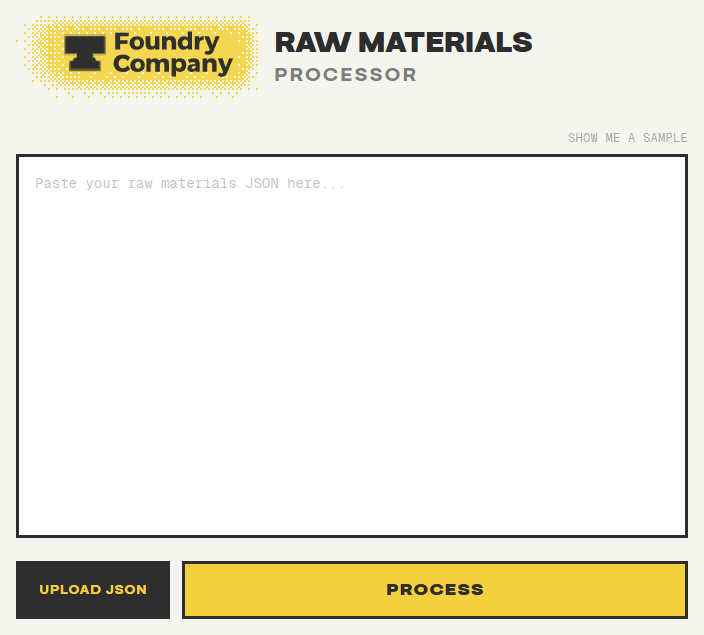
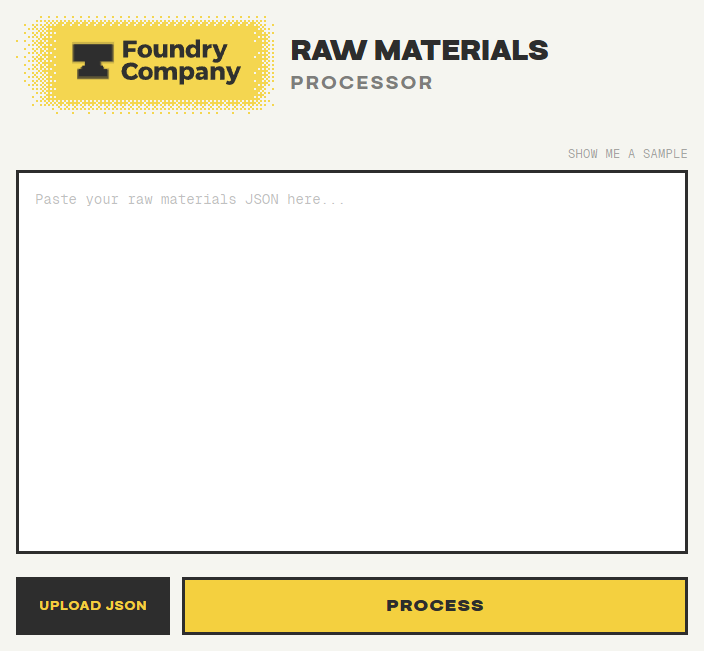
style: give the Foundry wordmark a solid yellow backing (#3)

Changed region(s): [[0.0312, 0.0299, 0.7812, 0.1795], [0.0312, 0.8378, 0.9688, 0.9874], [0.0, 0.2094, 1.0, 0.3291]]

diff --git a/src/components/Header.tsx b/src/components/Header.tsx
@@ -4,13 +4,13 @@ export default function Header() {
       <svg
         role="img"
         aria-label="Foundry Company"
-        width="242"
-        height="82"
-        viewBox="0 0 242 82"
+        width="258"
+        height="98"
+        viewBox="0 0 258 98"
         className="shrink-0"
       >
-        <image href="/foundry-header-dither.png" width="242" height="82" imageRendering="pixelated" />
-        <svg x="38" y="6" width="188.55" height="64" viewBox="0 0 274 93">
+        <image href="/foundry-header-dither.png" width="258" height="98" imageRendering="pixelated" />
+        <svg x="46" y="14" width="188.55" height="64" viewBox="0 0 274 93">
           <use href="/logo_wordmark.svg#wordmark" />
         </svg>
       </svg>
